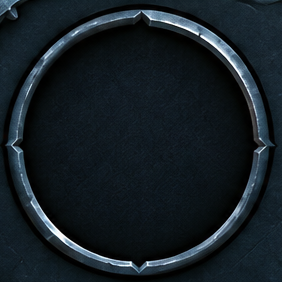
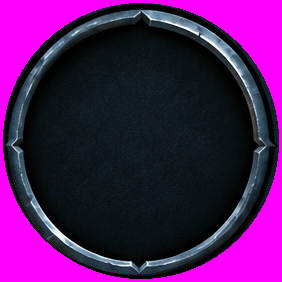
art: round food socket masked to its ring (no square plate tile)

Changed region(s): [[0.0, 0.0, 1.0, 1.0]]

diff --git a/art/tools/paint4.go b/art/tools/paint4.go
@@ -90,7 +90,17 @@ func cmdPaint4(args []string) {
 	savePNG(filepath.Join(kit, "strip5_wing.png"), crop(t1b, tileRect(90, 560, 1000, 1015)))
 	savePNG(filepath.Join(kit, "strip5_medallion.png"), crop(t1b, tileRect(880, 220, 1475, 630)))
 	savePNG(filepath.Join(kit, "strip5_cell.png"), crop(t3, tileRect(190, 215, 463, 533)))
-	savePNG(filepath.Join(kit, "strip5_socket_round.png"), crop(t1a, tileRect(315, 638, 597, 920)))
+	round := crop(t1a, tileRect(315, 638, 597, 920))
+	// only the ring and its bowl: the plate around it is the wing's own (a square of plate read as a tile)
+	cx, cy, rr := float64(round.Bounds().Dx())/2, float64(round.Bounds().Dy())/2, float64(round.Bounds().Dx())/2-3
+	for y := 0; y < round.Bounds().Dy(); y++ {
+		for x := 0; x < round.Bounds().Dx(); x++ {
+			if dx, dy := float64(x)+0.5-cx, float64(y)+0.5-cy; dx*dx+dy*dy > rr*rr {
+				round.SetNRGBA(x, y, color.NRGBA{255, 0, 255, 255})
+			}
+		}
+	}
+	savePNG(filepath.Join(kit, "strip5_socket_round.png"), round)
 	savePNG(filepath.Join(kit, "strip5_socket_square.png"), crop(t5a, tileRect(440, 642, 697, 932)))
 	fmt.Println("paint4 ok")
 }
